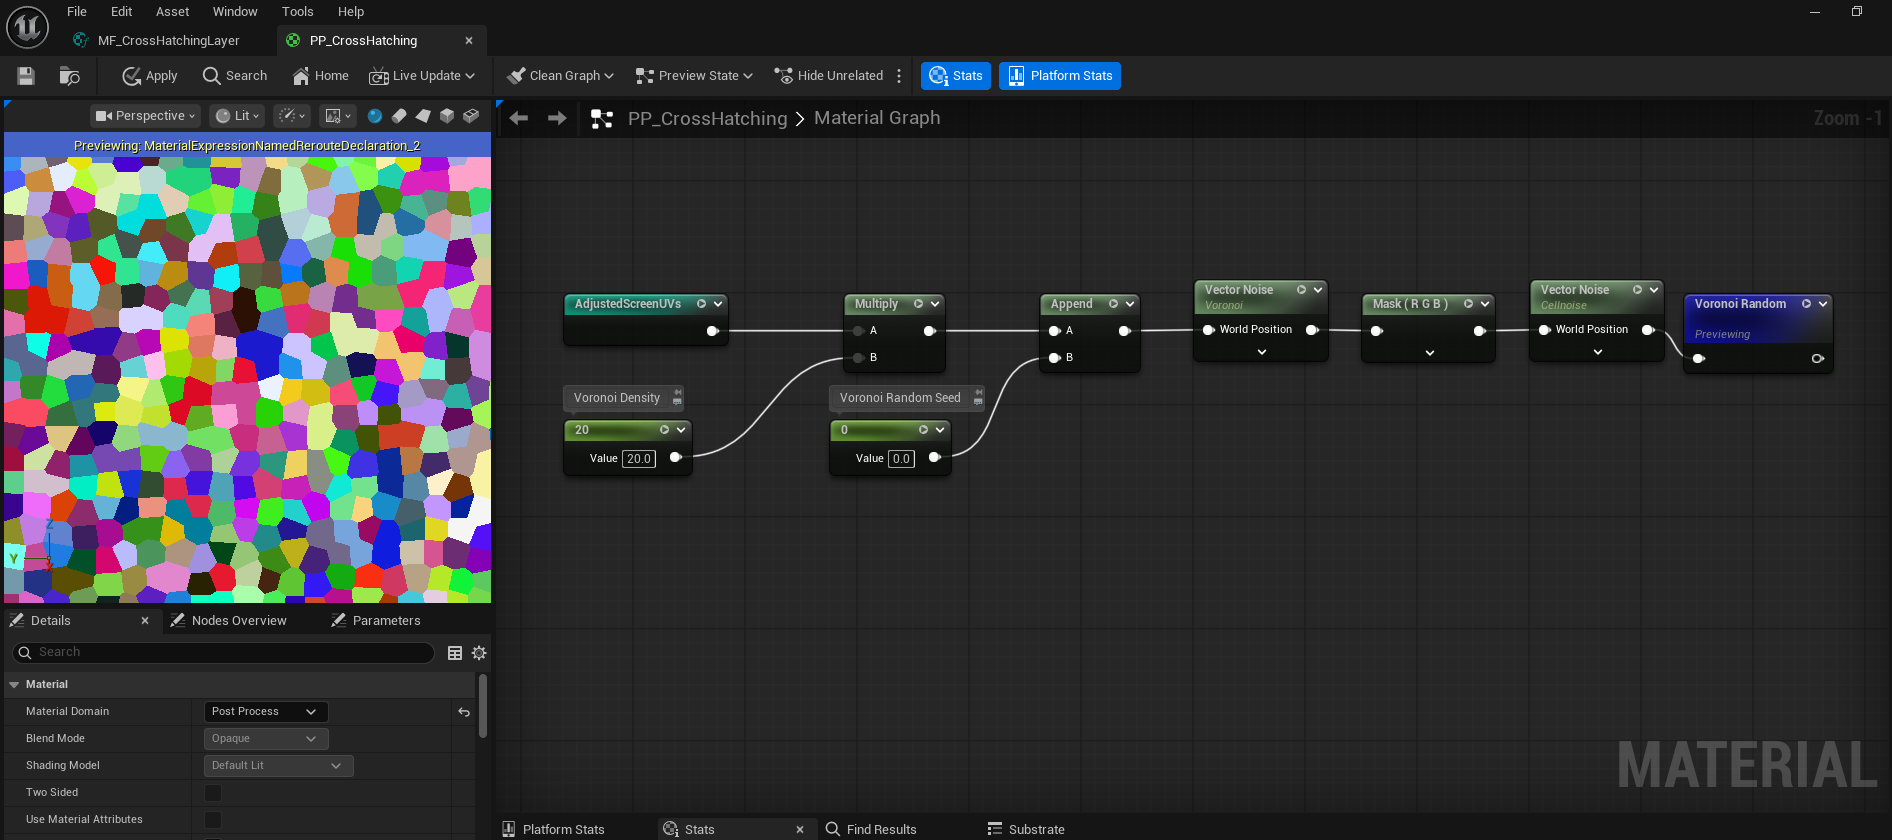
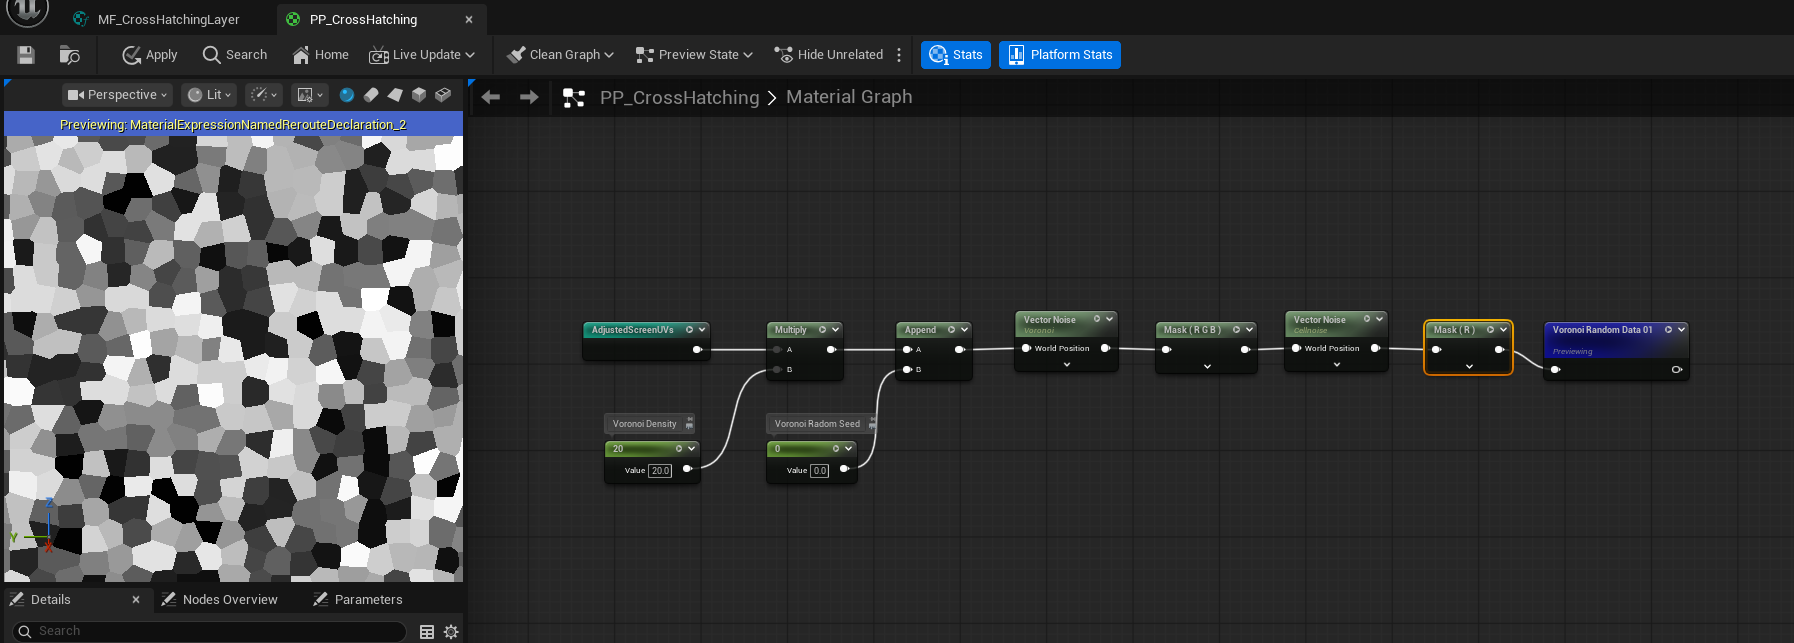
update voronoi

diff --git a/_posts/2026-01-07-cross-hatching.md b/_posts/2026-01-07-cross-hatching.md
@@ -119,10 +119,24 @@ First, let's get our **AdjustedScreenUVs** again and multiply it by the **Vorono
 
 ![Voronoi](/assets/images/blogs/cross_hatching/voronoi.png)
 
-We can also apply *Cellnise* to the result, to give each cell a different color. So that we can use one channel of this random color as a radom rotation on the light vector to slightly change the light direction in each Vornoi patch. We name it as **Voronoi Random**
+We can also apply *Cellnise* to the result, to give each cell a different color. So that we can use one channel of this random color as a radom rotation on the light vector to slightly change the light direction in each Vornoi patch. We take one of its channels and name it as **Voronoi Random Data**
 
 ![Voronoi Color](/assets/images/blogs/cross_hatching/voronoi_color.png)
 
 ## Random Light Rotation
+
+We now use the **Voronoi Random Data** to introduce per-segment directional variation into the cross-hatching lines. This randomness is applied as a rotation to the line pattern direction, helping to further break up uniformity and reinforce a hand-drawn appearance.
+
+First, we subtract 0.5 from the Voronoi Random value. Since the original data lies in the [0,1] range, this remaps it to [−0.5,0.5], allowing the rotation to occur in both clockwise and counterclockwise directions.
+
+Next, we scale this value by a **Line Max Random Rotation** parameter. This parameter defines the maximum angular deviation applied to each Voronoi cell and provides artistic control over how chaotic or subtle the variation appears.
+
+The resulting value is then fed into a Rotator node, which rotates the **ScreenRelativeLightVector** accordingly. Because the Voronoi Random value is constant within each cell, all line segments inside a cell share the same rotation, producing coherent yet varied stroke directions across the image.
+
+With this step applied, the cross-hatching lines gain localized directional variation, making the final result feel significantly more organic and closer to traditional ink drawing.
+
+![Voronoi Lines](/assets/images/blogs/cross_hatching/voronoi_line.png)
+
+## Improve Voronoi
 
 ## TBC...
